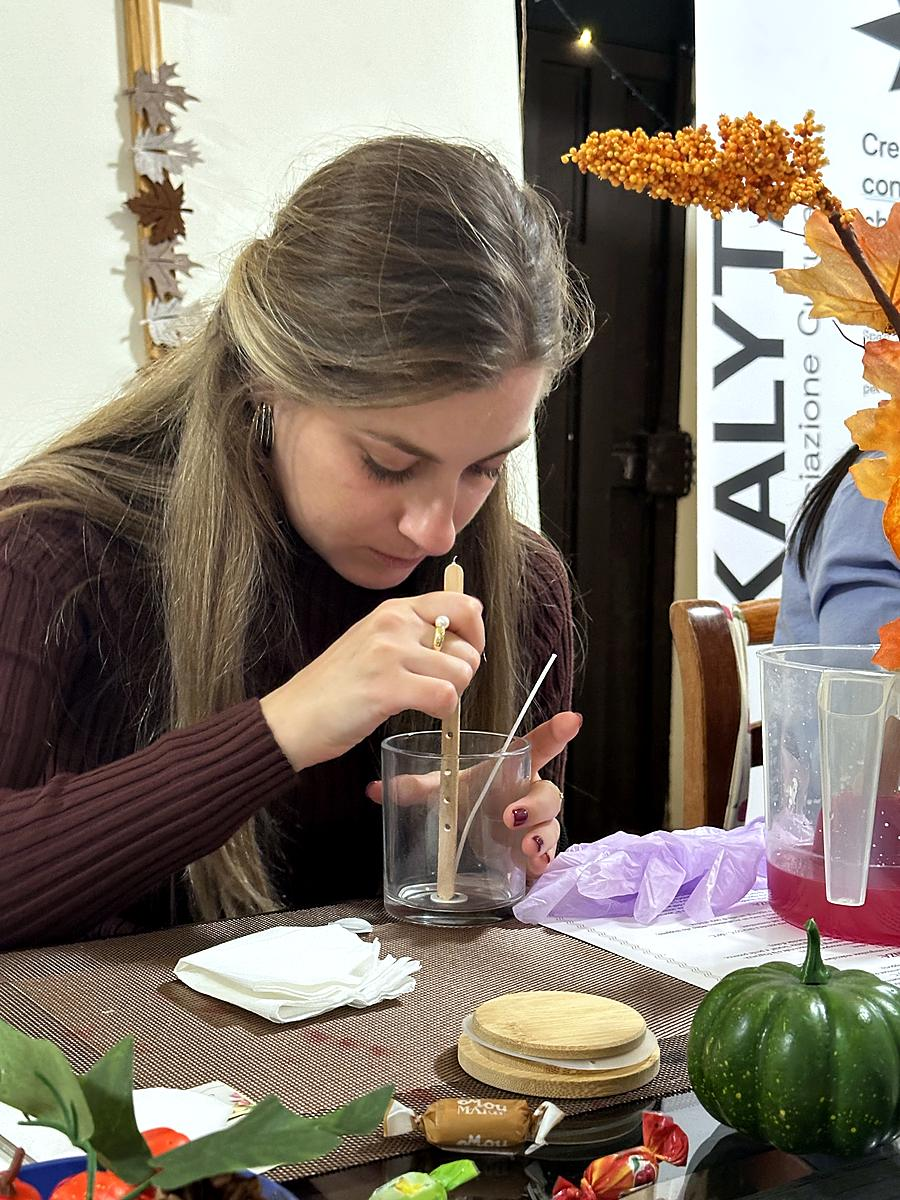
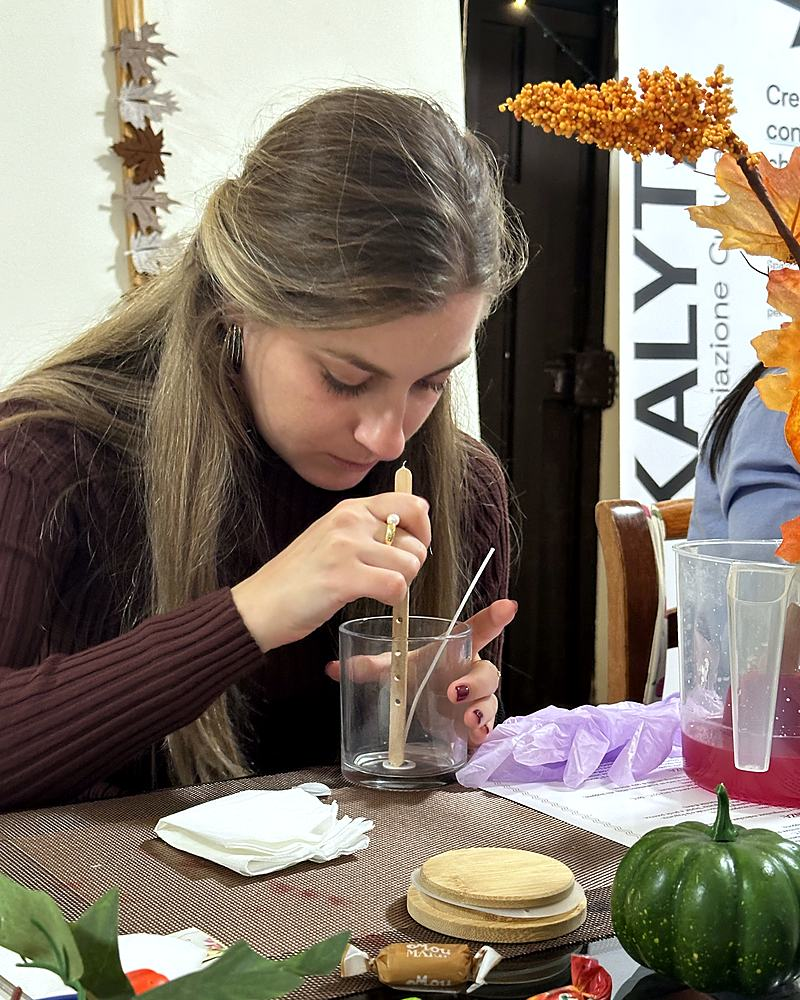
Foto ritagliate sul soggetto, riquadri con proporzioni fisse, STANZA vuota
- Ogni foto ritagliata a mano sul soggetto nelle proporzioni del riquadro
  in cui compare (4:5, 4:3, 3:2), poi corretta e compressa
- Home: laboratori in tre schede con foto verticale intera; comunità,
  dettagli, contatti con proporzioni fisse, niente più tagli casuali
- STANZA con foto dello spazio vuoto: finestra e chitarra, la sala la sera
  con le lucine, la sala luminosa con il tavolo lungo
- Contatti: il borgo di Isola di Capo Rizzuto al tramonto
- Kalyta Private: foto dei laboratori in 4:3 ritagliate sulle persone,
  'Dove' con STANZA la sera

Claude-Session: https://claude.ai/code/session_01Y2z39je4ao5FXm3VkYQBck

diff --git a/index.html b/index.html
@@ -8,7 +8,7 @@
 <meta property="og:site_name" content="Kalyta">
 <meta property="og:title" content="Kalyta APS | Laboratori e incontri a Isola di Capo Rizzuto">
 <meta property="og:description" content="Laboratori creativi, incontri e STANZA a Isola di Capo Rizzuto.">
-<meta property="og:image" content="https://kalyta.it/assets/stanza-preparata.jpg">
+<meta property="og:image" content="https://kalyta.it/assets/stanza-sera.jpg">
 <meta property="og:url" content="https://kalyta.it/">
 <link rel="icon" type="image/png" href="assets-private/favicon.png">
 <link rel="apple-touch-icon" href="assets-private/apple-touch-icon.png">
@@ -47,13 +47,10 @@
       <p>Ogni laboratorio è seguito da chi conosce il mestiere. Si lavora insieme allo stesso tavolo, con i materiali già pronti, e alla fine si torna a casa con quello che si è fatto.</p>
     </div>
   </div>
-  <div class="lab-grid">
-    <figure class="photo"><img src="assets/lab-pittura.jpg" alt="Una mano disegna su una tela gialla durante un laboratorio di pittura" width="900" height="1200" loading="lazy" decoding="async"></figure>
-    <div class="tile dark"><h3>Pittura creativa</h3><p>Tele, colori e pennelli sono già sul tavolo. Si parte da un tema e si dipinge con calma, senza bisogno di basi. Il quadro lo porti a casa.</p></div>
-    <div class="tile aqua"><h3>Cucito creativo</h3><p>Si lavora con le macchine da cucire su un progetto semplice, come una tote bag. Chi non le ha mai usate impara lì, un passaggio alla volta.</p></div>
-    <figure class="photo"><img src="assets/lab-cucito.jpg" alt="Una ragazza ricama un fiore su un paio di jeans durante il laboratorio di cucito" width="900" height="1200" loading="lazy" decoding="async"></figure>
-    <figure class="photo"><img src="assets/lab-candele.jpg" alt="Una ragazza versa la cera nel bicchiere durante il laboratorio di candele" width="900" height="1200" loading="lazy" decoding="async"></figure>
-    <div class="tile sand"><h3>Candele</h3><p>Cera, stoppini, essenze e decorazioni. Si segue il processo dall'inizio alla fine e si esce con la propria candela, ancora tiepida.</p></div>
+  <div class="lab-cards">
+    <article class="lab-card"><img src="assets/lab-pittura.jpg" alt="Ragazze dipingono le loro tele durante un laboratorio di pittura a STANZA" width="800" height="1000" loading="lazy" decoding="async"><div class="lab-card-text dark"><h3>Pittura creativa</h3><p>Tele, colori e pennelli sono già sul tavolo. Si parte da un tema e si dipinge con calma, senza bisogno di basi. Il quadro lo porti a casa.</p></div></article>
+    <article class="lab-card"><img src="assets/lab-cucito.jpg" alt="Una ragazza ricama un fiore su un paio di jeans durante il laboratorio di cucito" width="800" height="1000" loading="lazy" decoding="async"><div class="lab-card-text aqua"><h3>Cucito creativo</h3><p>Si lavora con le macchine da cucire su un progetto semplice, come una tote bag. Chi non le ha mai usate impara lì, un passaggio alla volta.</p></div></article>
+    <article class="lab-card"><img src="assets/lab-candele.jpg" alt="Una ragazza versa la cera nel bicchiere durante il laboratorio di candele" width="800" height="1000" loading="lazy" decoding="async"><div class="lab-card-text sand"><h3>Candele</h3><p>Cera, stoppini, essenze e decorazioni. Si segue il processo dall'inizio alla fine e si esce con la propria candela, ancora tiepida.</p></div></article>
   </div>
 </section>
 
@@ -61,7 +58,7 @@
   <p class="section-label">LA COMUNITÀ</p>
   <h2>Non solo laboratori.</h2>
   <div class="enc-grid">
-    <figure><img src="assets/gruppo-candele.jpg" alt="Il gruppo del laboratorio di candele a STANZA, con le candele appena fatte" width="900" height="1200" loading="lazy" decoding="async"></figure>
+    <figure><img src="assets/gruppo-candele.jpg" alt="Il gruppo del laboratorio di candele a STANZA, con le candele appena fatte" width="1200" height="900" loading="lazy" decoding="async"></figure>
     <div class="enc-list">
       <div>Musica</div>
       <div>Aperitivi</div>
@@ -73,9 +70,9 @@
 </section>
 
 <div class="extra-photo-story">
-  <figure><img src="assets/dettaglio-materiali.jpg" alt="Cere colorate, essenze e decorazioni pronte sul tavolo" width="675" height="900" loading="lazy" decoding="async"></figure>
-  <figure><img src="assets/dettaglio-biglietto.jpg" alt="Un biglietto sul tavolo: Non è storto, è creativo" width="675" height="900" loading="lazy" decoding="async"></figure>
-  <figure><img src="assets/candele-finita.jpg" alt="Una candela appena finita, con l'etichetta e il coperchio in legno" width="675" height="900" loading="lazy" decoding="async"></figure>
+  <figure><img src="assets/dettaglio-materiali.jpg" alt="Cere colorate, essenze e decorazioni pronte sul tavolo" width="640" height="800" loading="lazy" decoding="async"></figure>
+  <figure><img src="assets/dettaglio-biglietto.jpg" alt="Un biglietto sul tavolo: Non è storto, è creativo" width="640" height="800" loading="lazy" decoding="async"></figure>
+  <figure><img src="assets/candele-finita.jpg" alt="Una candela appena finita, con l'etichetta e il coperchio in legno" width="640" height="800" loading="lazy" decoding="async"></figure>
 </div>
 
 <section id="calendario" class="section calendar">
@@ -97,9 +94,9 @@
     <p>La nostra sede per laboratori e serate, in via degli Apostoli 16 a Isola di Capo Rizzuto. C'è un tavolo lungo dove si lavora in tanti, un angolo con il divano e le luci appese sopra tutto. <a class="stanza-map" href="https://www.google.com/maps/search/?api=1&amp;query=Via+degli+Apostoli+16+Isola+di+Capo+Rizzuto" target="_blank" rel="noopener">Come arrivare →</a></p>
   </div>
   <div class="stanza-grid">
-    <img src="assets/stanza-preparata.jpg" alt="Il tavolo di STANZA preparato per un laboratorio, con lo striscione Kalyta" width="900" height="1200" loading="lazy" decoding="async">
-    <img src="assets/stanza-macchine.jpg" alt="Le macchine da cucire pronte sul tavolo lungo di STANZA" width="675" height="900" loading="lazy" decoding="async">
-    <img src="assets/stanza-divano.jpg" alt="L'angolo con il divano rosso a STANZA" width="675" height="900" loading="lazy" decoding="async">
+    <img src="assets/stanza-finestra.jpg" alt="STANZA di giorno: il tavolo, la chitarra e la finestra sul giardino" width="880" height="1100" loading="lazy" decoding="async">
+    <img src="assets/stanza-sera.jpg" alt="STANZA la sera, con le lucine accese e il tavolo apparecchiato" width="1000" height="750" loading="lazy" decoding="async">
+    <img src="assets/stanza-sala.jpg" alt="La sala di STANZA con il tavolo lungo, le sedie e le lucine" width="1000" height="750" loading="lazy" decoding="async">
   </div>
 </section>
 
@@ -132,7 +129,7 @@
     <p>Per informazioni e iscrizioni scrivici su WhatsApp o per email.</p>
     <p><a class="button" href="https://wa.me/393501795131">WhatsApp</a>&nbsp;&nbsp; <a class="button" href="mailto:kalyta.info@gmail.com">kalyta.info@gmail.com</a>&nbsp;&nbsp; <a class="button" href="https://www.instagram.com/kalyta.official_/">Instagram</a></p>
   </div>
-  <img src="assets/territorio-anfiteatro.jpg" alt="Anfiteatro all'aperto a Isola di Capo Rizzuto" width="750" height="1000" loading="lazy" decoding="async">
+  <img src="assets/territorio-borgo.jpg" alt="Il borgo di Isola di Capo Rizzuto al tramonto, con un albero in primo piano" width="1200" height="800" loading="lazy" decoding="async">
 </section>
 </main>
 

diff --git a/private/index.html b/private/index.html
@@ -22,17 +22,17 @@
 <main>
 <section class="hero">
  <div class="hero-copy"><p class="eyebrow">KALYTA PRIVATE</p><h1>Un laboratorio<br><span>solo per il vostro gruppo.</span></h1><p class="lead">Pittura, candele o cucito, in un giorno scelto da voi. Lo prepariamo a STANZA, il nostro spazio a Isola di Capo Rizzuto.</p><p>Va bene per un compleanno, un addio al nubilato, una serata tra amici o tra colleghi. Anche senza un'occasione.</p><a class="button" href="#contatto">Scriveteci ↓</a></div>
- <figure class="hero-photo"><img src="../assets/private-tavolata.jpg" alt="Un gruppo al lavoro intorno al tavolo lungo durante il laboratorio di candele" width="900" height="1200" decoding="async"></figure>
+ <figure class="hero-photo"><img src="../assets/private-tavolata.jpg" alt="Un gruppo al lavoro intorno al tavolo lungo durante il laboratorio di candele" width="880" height="1100" decoding="async"></figure>
 </section>
 <section id="come" class="intro"><p class="eyebrow">COME FUNZIONA</p><div><h2>Ci pensiamo noi a preparare.</h2><p>Ci dite quanti siete, quale laboratorio vi incuriosisce e più o meno quando. Vi rispondiamo con le date libere e il contributo a persona.</p><p>Il giorno stabilito trovate il tavolo apparecchiato e i materiali pronti, e una persona di Kalyta che vi segue dall'inizio alla fine.</p></div></section>
 <section id="esperienze" class="experiences">
  <div class="section-head"><p class="eyebrow">I LABORATORI</p><h2>Cosa potete fare.</h2></div>
- <article class="exp exp-paint"><img src="../assets/private-pittura.jpg" alt="Una tela dipinta con il mare su un cavalletto, durante un laboratorio Kalyta" width="900" height="1200" loading="lazy" decoding="async"><div><h3>Pittura creativa</h3><p>Ognuno ha la sua tela e i suoi colori, intorno allo stesso tavolo. Non servono basi: si parte da un tema scelto insieme.</p></div></article>
- <article class="exp exp-sew"><div><h3>Cucito creativo</h3><p>Con le macchine da cucire si realizza un oggetto semplice, ad esempio una tote bag. Vi seguiamo passo per passo, anche se è la prima volta.</p></div><img src="../assets/private-cucito.jpg" alt="Mani che lavorano su un paio di jeans durante il laboratorio di cucito" width="900" height="1200" loading="lazy" decoding="async"></article>
- <article class="exp exp-candle"><img src="../assets/private-candele.jpg" alt="Una socia prepara la sua candela accanto allo striscione Kalyta" width="900" height="1200" loading="lazy" decoding="async"><div><h3>Candele</h3><p>Si scelgono cera, colori ed essenze e si prepara una candela a testa, da portare via a fine serata.</p></div></article>
+ <article class="exp exp-paint"><img src="../assets/private-pittura.jpg" alt="Ragazze dipingono le loro tele durante un laboratorio di pittura a STANZA" width="1100" height="825" loading="lazy" decoding="async"><div><h3>Pittura creativa</h3><p>Ognuno ha la sua tela e i suoi colori, intorno allo stesso tavolo. Non servono basi: si parte da un tema scelto insieme.</p></div></article>
+ <article class="exp exp-sew"><div><h3>Cucito creativo</h3><p>Con le macchine da cucire si realizza un oggetto semplice, ad esempio una tote bag. Vi seguiamo passo per passo, anche se è la prima volta.</p></div><img src="../assets/private-cucito.jpg" alt="Mani che lavorano su un paio di jeans durante il laboratorio di cucito" width="1100" height="825" loading="lazy" decoding="async"></article>
+ <article class="exp exp-candle"><img src="../assets/private-candele.jpg" alt="Una socia prepara la sua candela accanto allo striscione Kalyta" width="1100" height="825" loading="lazy" decoding="async"><div><h3>Candele</h3><p>Si scelgono cera, colori ed essenze e si prepara una candela a testa, da portare via a fine serata.</p></div></article>
  <div class="more"><p class="eyebrow">ALTRE PROPOSTE</p><p>Nel calendario Kalyta ogni mese ci sono laboratori nuovi, come gioielli fatti a mano o il Gin Lab. Se ne avete visto uno che vi piace, possiamo riproporlo per voi.</p><a href="../calendario/">Guarda il calendario →</a></div>
 </section>
-<section class="stanza"><div class="stanza-copy"><p class="eyebrow">DOVE</p><h2>A STANZA.</h2><p>Via degli Apostoli 16, Isola di Capo Rizzuto. Il tavolo lungo è fatto apposta per lavorare in gruppo. Se siete in tanti, ne parliamo e troviamo la soluzione. <a href="https://www.google.com/maps/search/?api=1&amp;query=Via+degli+Apostoli+16+Isola+di+Capo+Rizzuto" target="_blank" rel="noopener">Apri in Google Maps →</a></p></div><img src="../assets/stanza-preparata.jpg" alt="Il tavolo di STANZA preparato per un laboratorio" width="900" height="1200" loading="lazy" decoding="async"></section>
+<section class="stanza"><div class="stanza-copy"><p class="eyebrow">DOVE</p><h2>A STANZA.</h2><p>Via degli Apostoli 16, Isola di Capo Rizzuto. Il tavolo lungo è fatto apposta per lavorare in gruppo. Se siete in tanti, ne parliamo e troviamo la soluzione. <a href="https://www.google.com/maps/search/?api=1&amp;query=Via+degli+Apostoli+16+Isola+di+Capo+Rizzuto" target="_blank" rel="noopener">Apri in Google Maps →</a></p></div><img src="../assets/stanza-sera.jpg" alt="STANZA la sera, con le lucine accese e il tavolo apparecchiato" width="1000" height="750" loading="lazy" decoding="async"></section>
 <section id="contatto" class="contact">
  <div class="contact-intro"><p class="eyebrow">SCRIVETECI</p><h2>Raccontateci cosa avete in mente.</h2><p>Non serve aver già deciso tutto. Compilate quello che sapete: si apre WhatsApp con il messaggio pronto e vi rispondiamo con date e contributo.</p></div>
  <form id="privateForm">

diff --git a/style.css b/style.css
@@ -302,3 +302,30 @@ footer{flex-wrap:wrap;gap:24px 40px}
 .legal li{margin-bottom:8px}
 .legal a{color:var(--teal);font-weight:700}
 .legal-updated{opacity:.65;font-size:14px!important}
+
+/* ===== Foto: riquadri con proporzioni fisse, niente tagli casuali ===== */
+.lab-cards{display:grid;grid-template-columns:repeat(3,1fr);gap:18px}
+.lab-card{display:flex;flex-direction:column;background:var(--white)}
+.lab-card img{width:100%;aspect-ratio:4/5;height:auto;object-fit:cover;display:block}
+.lab-card-text{padding:28px 28px 32px;flex:1}
+.lab-card-text h3{font-size:clamp(28px,2.6vw,38px);line-height:1;letter-spacing:-.04em;margin:0 0 12px}
+.lab-card-text p{font-size:17px;line-height:1.5;margin:0}
+.enc-grid figure{height:auto!important;aspect-ratio:4/3;min-height:0!important;align-self:start}
+.enc-grid figure img{height:100%}
+.extra-photo-story{grid-template-columns:repeat(3,1fr)!important}
+.extra-photo-story figure,.extra-photo-story figure:first-child,.extra-photo-story figure:not(:first-child){aspect-ratio:4/5!important;height:auto!important;grid-column:auto!important}
+.stanza-grid{grid-template-columns:1.18fr 1fr!important;grid-template-rows:auto auto!important;align-items:stretch}
+.stanza-grid img{height:100%;min-height:0}
+.stanza-grid img:first-child{grid-row:1/3}
+.stanza-grid img:not(:first-child){aspect-ratio:4/3;height:auto}
+.origin img{height:auto!important;aspect-ratio:3/2;object-fit:cover}
+@media(max-width:800px){
+.lab-cards{grid-template-columns:1fr;gap:14px}
+.lab-card img{aspect-ratio:4/3}
+.lab-card-text{padding:22px 20px 26px}
+.extra-photo-story{gap:6px!important}
+.stanza-grid{display:grid!important;grid-template-columns:1fr 1fr!important;gap:8px}
+.stanza-grid img:first-child{grid-column:1/-1;grid-row:auto;aspect-ratio:4/5;height:auto;margin:0}
+.stanza-grid img{height:auto!important;margin:0!important}
+.origin img{margin-top:30px}
+}

diff --git a/private.css b/private.css
@@ -40,3 +40,9 @@ input::placeholder,textarea::placeholder{color:rgba(255,255,255,.55)}
 footer img{height:auto!important;object-fit:contain}
 footer{flex-wrap:wrap;gap:24px 40px}
 .foot-legal{flex-basis:100%;margin:10px 0 0;padding-top:20px;border-top:1px solid #fffdf726;font-size:12px;line-height:1.6;opacity:.65}
+
+/* Foto con proporzioni fisse */
+.exp{height:auto!important;min-height:0!important;align-items:stretch}
+.exp>img{aspect-ratio:4/3;height:auto!important;object-fit:cover}
+.hero-photo img{object-position:50% 50%}
+@media(max-width:800px){.exp img{height:auto!important;aspect-ratio:4/3}}
